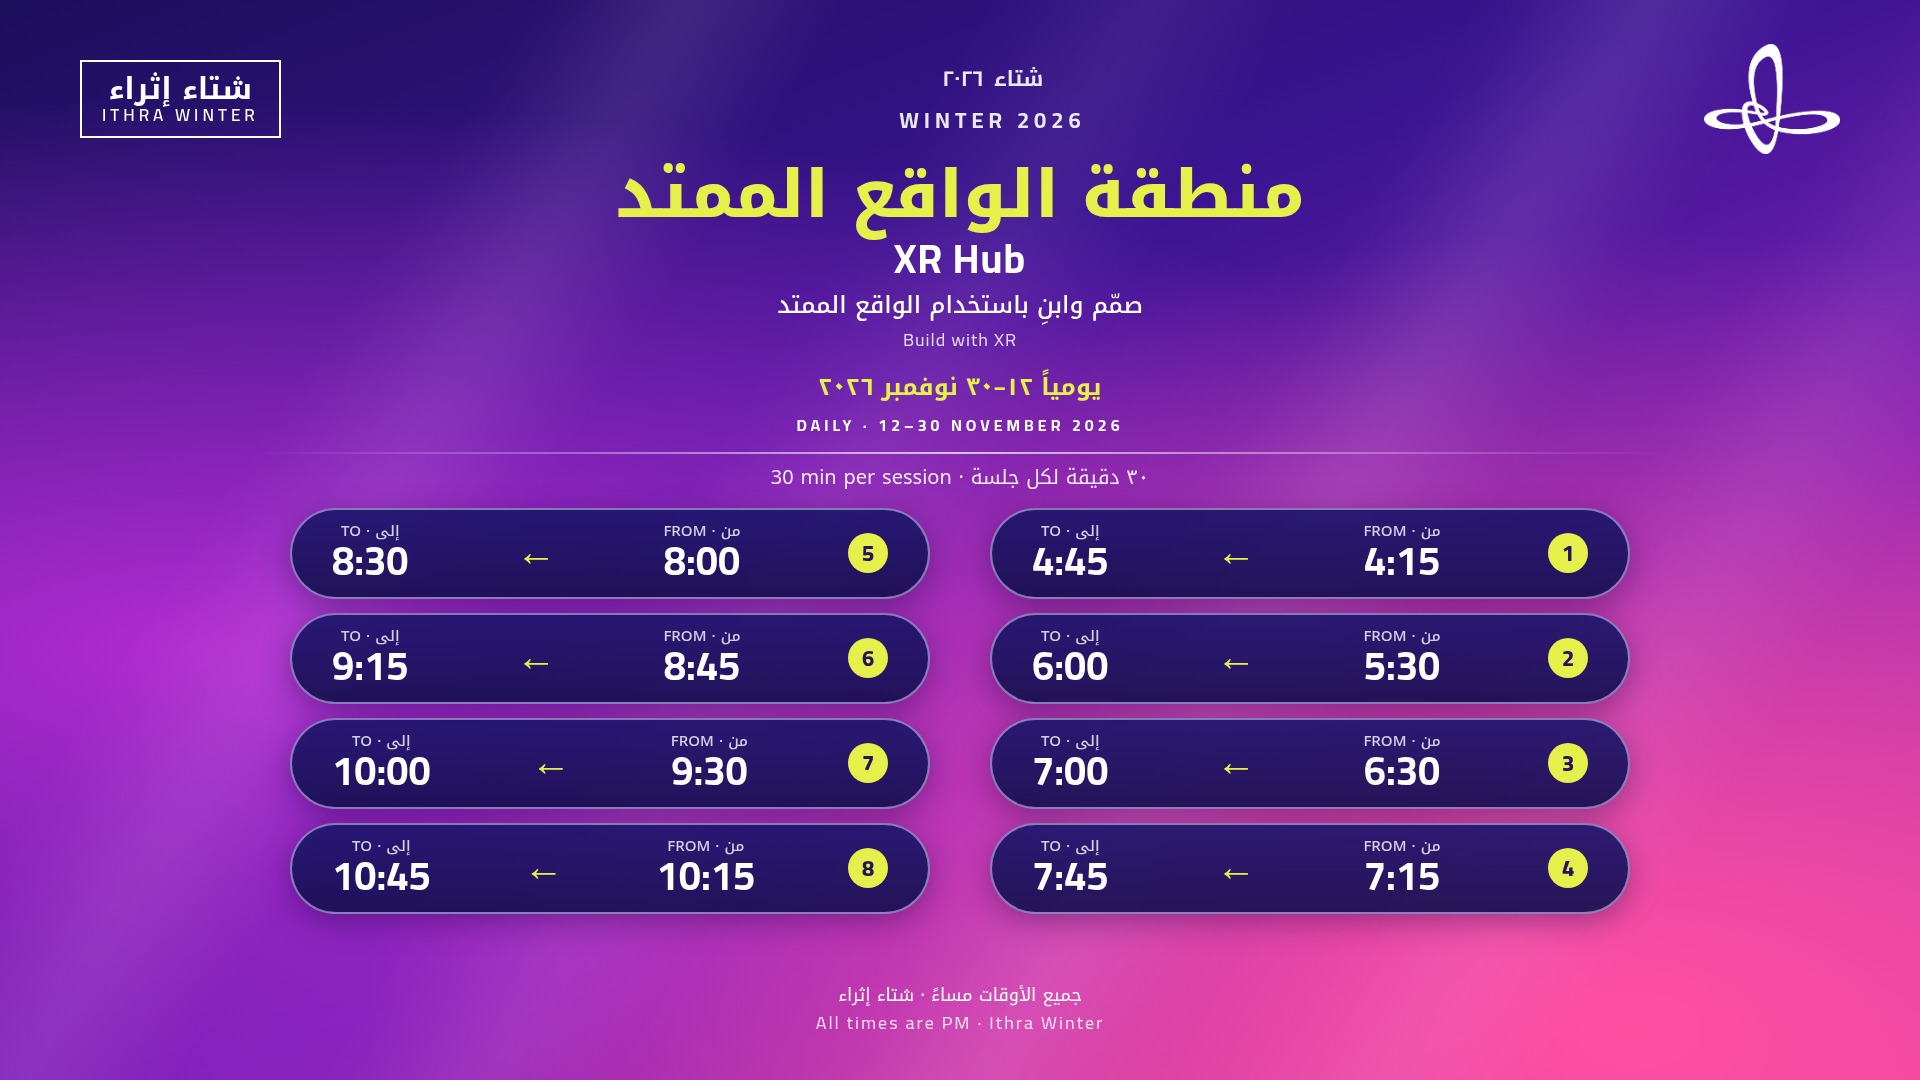
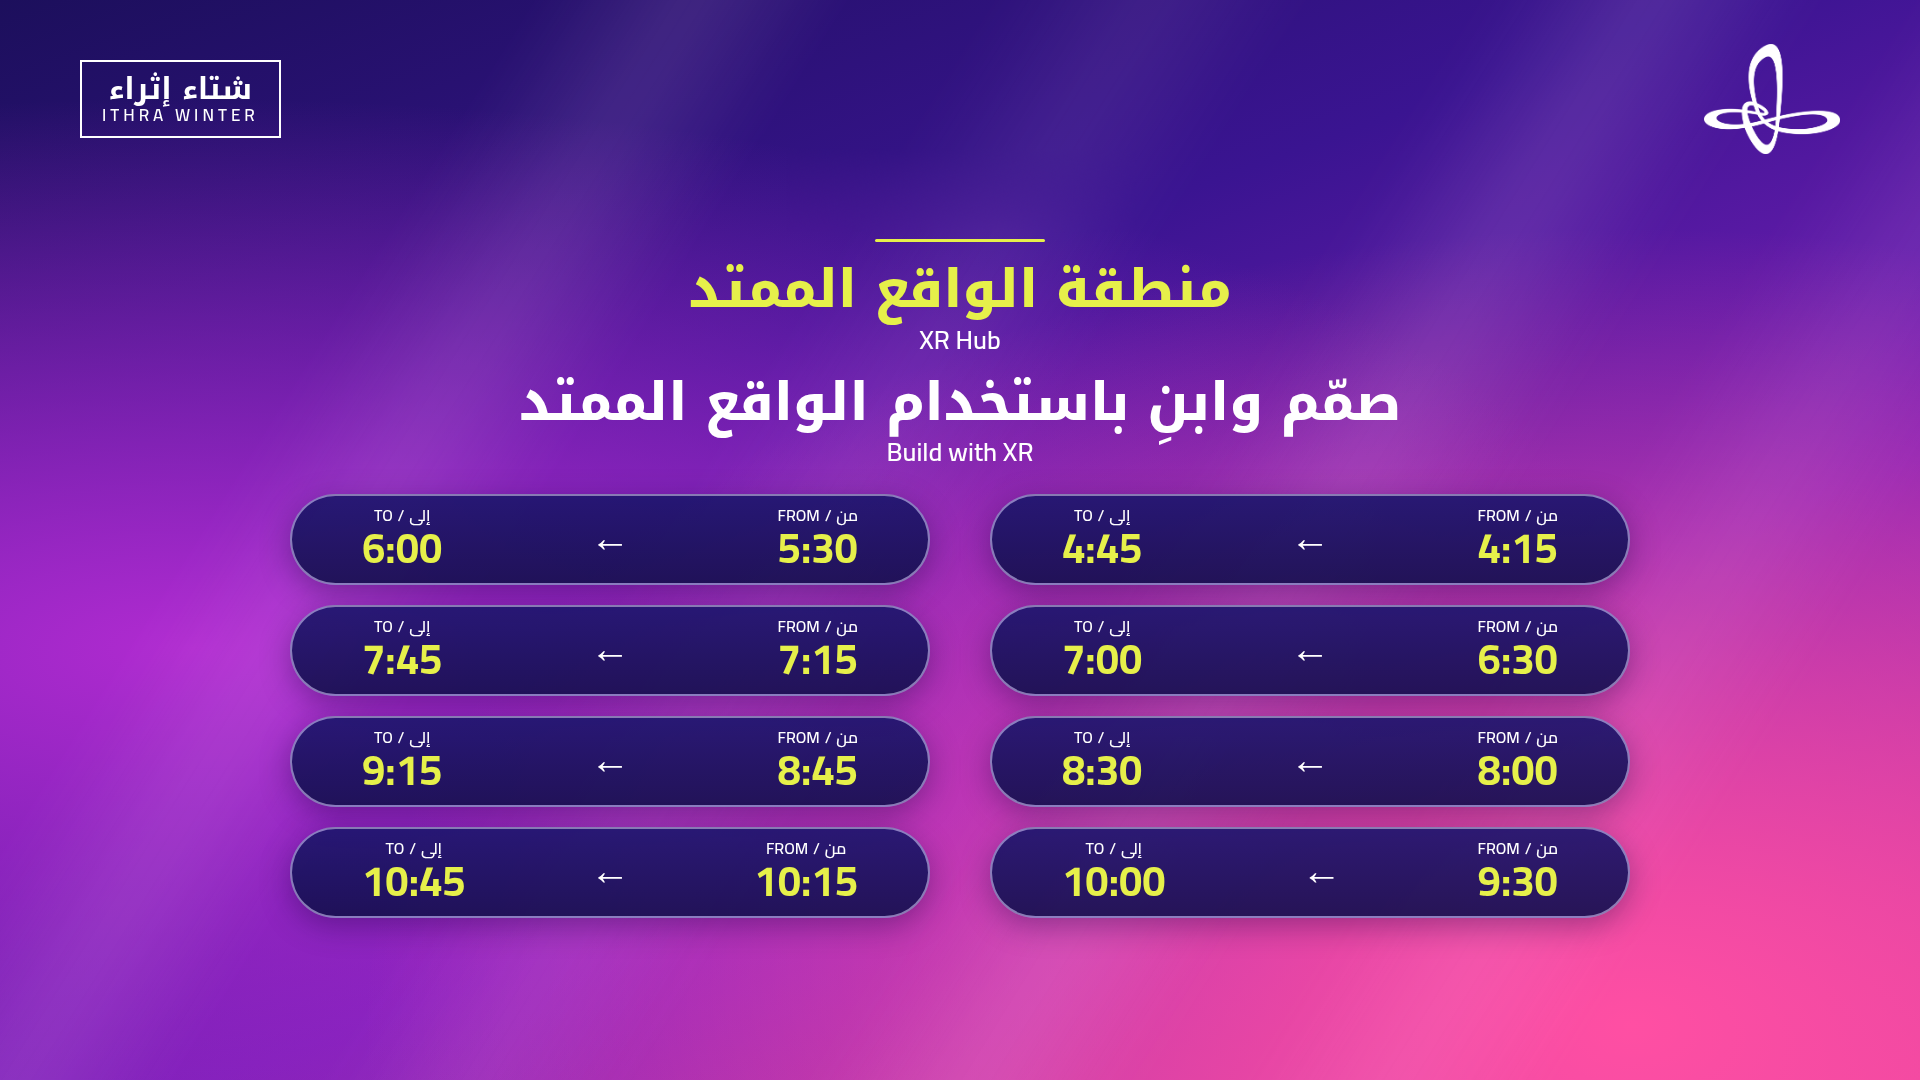
New poster with live daily date (Cairo font), re-measured row-major pills, remove NOW/NEXT outline

Changed region(s): [[0.1562, 0.1528, 0.8438, 0.8556], [0.4688, 0.0611, 0.5625, 0.1222], [0.4375, 0.9167, 0.5625, 0.9472]]

diff --git a/poster-date.js b/poster-date.js
@@ -1,0 +1,59 @@
+/* Live date on the schedule poster (Asia/Riyadh), drawn where the old baked-in date was.
+   Positions are poster pixels (1920x1080) inside #poster-box, which is sized to the poster.
+   ?date=YYYY-MM-DD overrides the date for testing. */
+(function () {
+  var AR_DAYS = ["الأحد", "الاثنين", "الثلاثاء", "الأربعاء", "الخميس", "الجمعة", "السبت"];
+  var AR_MONTHS = ["يناير", "فبراير", "مارس", "أبريل", "مايو", "يونيو", "يوليو", "أغسطس", "سبتمبر", "أكتوبر", "نوفمبر", "ديسمبر"];
+  var EN_DAYS = ["SUNDAY", "MONDAY", "TUESDAY", "WEDNESDAY", "THURSDAY", "FRIDAY", "SATURDAY"];
+  var EN_MONTHS = ["JANUARY", "FEBRUARY", "MARCH", "APRIL", "MAY", "JUNE", "JULY", "AUGUST", "SEPTEMBER", "OCTOBER", "NOVEMBER", "DECEMBER"];
+  var sp = new URLSearchParams(location.search);
+  var FONT = (/^(localhost|127\.0\.0\.1)$/.test(location.hostname) && sp.get("font")) || "Cairo";
+
+  var link = document.createElement("link");
+  link.rel = "stylesheet";
+  link.href = "https://fonts.googleapis.com/css2?family=" + encodeURIComponent(FONT) + ":wght@500;700;800&display=swap";
+  document.head.appendChild(link);
+
+  var css = document.createElement("style");
+  css.textContent =
+    "#poster-box{container-type:size}" +
+    "#poster-date{position:absolute;left:0;width:100%;top:" + (149 / 10.8) + "%;text-align:center;pointer-events:none;" +
+    "font-family:'" + FONT + "',system-ui,sans-serif;color:#fff}" +
+    "#poster-date .ar{direction:rtl;font-weight:700;font-size:calc(34 / 1080 * 100cqh);line-height:calc(48 / 1080 * 100cqh)}" +
+    "#poster-date .ar .star{color:#EAF04A;font-size:.8em;margin-inline-start:.3em;vertical-align:.1em}" +
+    "#poster-date .en{font-weight:700;font-size:calc(17.5 / 1080 * 100cqh);letter-spacing:.12em;margin-top:calc(7 / 1080 * 100cqh);line-height:1}";
+  document.head.appendChild(css);
+
+  function ymdRiyadh() {
+    var q = sp.get("date");
+    if (q && /^\d{4}-\d{2}-\d{2}$/.test(q)) return q;
+    return new Intl.DateTimeFormat("en-CA", { timeZone: "Asia/Riyadh", year: "numeric", month: "2-digit", day: "2-digit" }).format(new Date());
+  }
+  var el = null, shown = "";
+  function render() {
+    var box = document.getElementById("poster-box");
+    if (!box) return;
+    var ymd = ymdRiyadh();
+    if (el && el.parentNode === box && ymd === shown) return;
+    var d = new Date(ymd + "T12:00:00Z");
+    var dow = d.getUTCDay(), day = d.getUTCDate(), mon = d.getUTCMonth();
+    el = document.getElementById("poster-date") || document.createElement("div");
+    el.id = "poster-date";
+    el.innerHTML = "";
+    var ar = document.createElement("div");
+    ar.className = "ar";
+    ar.textContent = AR_DAYS[dow] + " " + day + " " + AR_MONTHS[mon];
+    var star = document.createElement("span");
+    star.className = "star"; star.textContent = "✦";
+    ar.appendChild(star);
+    var en = document.createElement("div");
+    en.className = "en";
+    en.textContent = EN_DAYS[dow] + " · " + day + " " + EN_MONTHS[mon];
+    el.appendChild(ar); el.appendChild(en);
+    if (el.parentNode !== box) box.appendChild(el);
+    shown = ymd;
+  }
+  window.XR_renderDate = render;
+  render();
+  setInterval(render, 60000);
+})();

diff --git a/in/index.html b/in/index.html
@@ -162,6 +162,7 @@
     <div id="player"></div>
   </div>
   <div id="hint">Tap for fullscreen</div>
+  <script src="../poster-date.js"></script>
   <script src="../config.js"></script>
 
   <script>
@@ -301,8 +302,10 @@
       // ---- Current-session highlight (times in Asia/Riyadh) ----
       const IMG_W = 1920, IMG_H = 1080;
       // Pill boxes in poster pixels: [left, top, width, height]
-      const COL_RIGHT = 990, COL_LEFT = 289, PILL_W = 641;
-      const ROW_TOP = [500, 605, 710, 815], PILL_H = 107;
+      // Row-major, right to left: row 1 = sessions 1 (right) and 2 (left), etc.
+      const COL_RIGHT = 990, COL_LEFT = 290, PILL_W = 640, PILL_H = 91, ROW_TOP0 = 494, ROW_STEP = 111;
+      const pillBox = i => [i % 2 === 0 ? COL_RIGHT : COL_LEFT, ROW_TOP0 + ROW_STEP * Math.floor(i / 2)];
+      const HL_PAD = 6;
       const SESSIONS = [
         ["16:15", "16:45"], ["17:30", "18:00"], ["18:30", "19:00"], ["19:15", "19:45"],
         ["20:00", "20:30"], ["20:45", "21:15"], ["21:30", "22:00"], ["22:15", "22:45"]
@@ -350,22 +353,7 @@
         hlLayer.innerHTML = "";
         renderDone(now);
         renderTeams(now);
-        if (idx < 0) return;
-        const left = idx < 4 ? COL_RIGHT : COL_LEFT;
-        const top = ROW_TOP[idx % 4];
-        const el = document.createElement("div");
-        el.className = mode === "now" ? "hl" : "hl next";
-        el.style.left = (left / IMG_W * 100) + "%";
-        el.style.top = (top / IMG_H * 100) + "%";
-        el.style.width = (PILL_W / IMG_W * 100) + "%";
-        el.style.height = (PILL_H / IMG_H * 100) + "%";
-        const tag = document.createElement("div");
-        tag.className = "tag";
-        tag.textContent = mode === "now" ? "NOW · الآن" : "NEXT · التالي";
-        tag.style.left = "50%";
-        tag.style.top = "0";
-        el.appendChild(tag);
-        hlLayer.appendChild(el);
+        // The NOW/NEXT outline was removed; this only clears the layer.
       }
 
 
@@ -373,7 +361,7 @@
       const inEvent = ymd => ymd >= "2026-11-12" && ymd <= "2026-11-30";
       const pct = (v, total) => (v / total * 100) + "%";
       function place(el, i, x, y, w, h) {
-        const left = i < 4 ? COL_RIGHT : COL_LEFT, top = ROW_TOP[i % 4];
+        const [left, top] = pillBox(i);
         el.style.left = pct(left + x, IMG_W); el.style.top = pct(top + y, IMG_H);
         el.style.width = pct(w, IMG_W); el.style.height = pct(h, IMG_H);
       }
@@ -384,13 +372,13 @@
           if (now.mins < toMin(b)) return;
           const el = document.createElement("div");
           el.className = "done";
-          place(el, i, 0, 8, PILL_W, 90);
+          place(el, i, 0, 0, PILL_W, PILL_H);
           doneLayer.appendChild(el);
         });
       }
       // Free space between the TO time and the FROM label, centred on the arrow (poster px).
-      const ARROW_X = [246, 246, 246, 246, 247, 247, 261, 254];
-      const ZONE_W = 212, ZONE_TOP = 24, ZONE_H = 64;
+      const ARROW_X = [320, 320, 320, 320, 320, 320, 332, 320];
+      const ZONE_W = 260, ZONE_TOP = 13, ZONE_H = 65;
       let teamData = null;
       function renderTeams(now) {
         teamLayer.innerHTML = "";

diff --git a/out/index.html b/out/index.html
@@ -128,12 +128,13 @@
   <div id="image-stage">
     <img class="blur" src="../poster.png" alt="" aria-hidden="true">
     <img id="poster" src="../poster.png" alt="XR Hub daily schedule">
-    <div id="poster-box"></div>
+    <div id="poster-box"><div id="hl-layer"></div></div>
   </div>
   <div id="video-stage" class="hidden">
     <div id="player"></div>
   </div>
   <div id="hint">Tap for fullscreen &amp; sound</div>
+  <script src="../poster-date.js"></script>
 
   <script>
     (function () {
@@ -272,8 +273,10 @@
       // ---- Current-session highlight (times in Asia/Riyadh) ----
       const IMG_W = 1920, IMG_H = 1080;
       // Pill boxes in poster pixels: [left, top, width, height]
-      const COL_RIGHT = 990, COL_LEFT = 289, PILL_W = 641;
-      const ROW_TOP = [500, 605, 710, 815], PILL_H = 107;
+      // Row-major, right to left: row 1 = sessions 1 (right) and 2 (left), etc.
+      const COL_RIGHT = 990, COL_LEFT = 290, PILL_W = 640, PILL_H = 91, ROW_TOP0 = 494, ROW_STEP = 111;
+      const pillBox = i => [i % 2 === 0 ? COL_RIGHT : COL_LEFT, ROW_TOP0 + ROW_STEP * Math.floor(i / 2)];
+      const HL_PAD = 6;
       const SESSIONS = [
         ["16:15", "16:45"], ["17:30", "18:00"], ["18:30", "19:00"], ["19:15", "19:45"],
         ["20:00", "20:30"], ["20:45", "21:15"], ["21:30", "22:00"], ["22:15", "22:45"]
@@ -313,23 +316,9 @@
           idx = SESSIONS.findIndex(([a]) => now.mins < toMin(a));
           mode = "next";
         }
-        box.innerHTML = "";
-        if (idx < 0) return;
-        const left = idx < 4 ? COL_RIGHT : COL_LEFT;
-        const top = ROW_TOP[idx % 4];
-        const el = document.createElement("div");
-        el.className = mode === "now" ? "hl" : "hl next";
-        el.style.left = (left / IMG_W * 100) + "%";
-        el.style.top = (top / IMG_H * 100) + "%";
-        el.style.width = (PILL_W / IMG_W * 100) + "%";
-        el.style.height = (PILL_H / IMG_H * 100) + "%";
-        const tag = document.createElement("div");
-        tag.className = "tag";
-        tag.textContent = mode === "now" ? "NOW · الآن" : "NEXT · التالي";
-        tag.style.left = "50%";
-        tag.style.top = "0";
-        el.appendChild(tag);
-        box.appendChild(el);
+        const hlLayer = document.getElementById("hl-layer");
+        hlLayer.innerHTML = "";
+        // The NOW/NEXT outline was removed; this only clears the layer.
       }
 
       window.addEventListener("resize", layoutBox);

diff --git a/index.html b/index.html
@@ -128,12 +128,13 @@
   <div id="image-stage">
     <img class="blur" src="poster.png" alt="" aria-hidden="true">
     <img id="poster" src="poster.png" alt="XR Hub daily schedule">
-    <div id="poster-box"></div>
+    <div id="poster-box"><div id="hl-layer"></div></div>
   </div>
   <div id="video-stage" class="hidden">
     <div id="player"></div>
   </div>
   <div id="hint">Tap for fullscreen &amp; sound</div>
+  <script src="poster-date.js"></script>
 
   <script>
     (function () {
@@ -272,8 +273,10 @@
       // ---- Current-session highlight (times in Asia/Riyadh) ----
       const IMG_W = 1920, IMG_H = 1080;
       // Pill boxes in poster pixels: [left, top, width, height]
-      const COL_RIGHT = 990, COL_LEFT = 289, PILL_W = 641;
-      const ROW_TOP = [500, 605, 710, 815], PILL_H = 107;
+      // Row-major, right to left: row 1 = sessions 1 (right) and 2 (left), etc.
+      const COL_RIGHT = 990, COL_LEFT = 290, PILL_W = 640, PILL_H = 91, ROW_TOP0 = 494, ROW_STEP = 111;
+      const pillBox = i => [i % 2 === 0 ? COL_RIGHT : COL_LEFT, ROW_TOP0 + ROW_STEP * Math.floor(i / 2)];
+      const HL_PAD = 6;
       const SESSIONS = [
         ["16:15", "16:45"], ["17:30", "18:00"], ["18:30", "19:00"], ["19:15", "19:45"],
         ["20:00", "20:30"], ["20:45", "21:15"], ["21:30", "22:00"], ["22:15", "22:45"]
@@ -313,23 +316,9 @@
           idx = SESSIONS.findIndex(([a]) => now.mins < toMin(a));
           mode = "next";
         }
-        box.innerHTML = "";
-        if (idx < 0) return;
-        const left = idx < 4 ? COL_RIGHT : COL_LEFT;
-        const top = ROW_TOP[idx % 4];
-        const el = document.createElement("div");
-        el.className = mode === "now" ? "hl" : "hl next";
-        el.style.left = (left / IMG_W * 100) + "%";
-        el.style.top = (top / IMG_H * 100) + "%";
-        el.style.width = (PILL_W / IMG_W * 100) + "%";
-        el.style.height = (PILL_H / IMG_H * 100) + "%";
-        const tag = document.createElement("div");
-        tag.className = "tag";
-        tag.textContent = mode === "now" ? "NOW · الآن" : "NEXT · التالي";
-        tag.style.left = "50%";
-        tag.style.top = "0";
-        el.appendChild(tag);
-        box.appendChild(el);
+        const hlLayer = document.getElementById("hl-layer");
+        hlLayer.innerHTML = "";
+        // The NOW/NEXT outline was removed; this only clears the layer.
       }
 
       window.addEventListener("resize", layoutBox);
